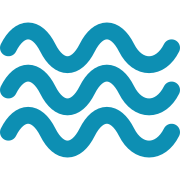
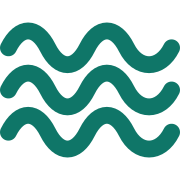
Restore seafoam default palette

diff --git a/apps/web/src/state/preferences.ts b/apps/web/src/state/preferences.ts
@@ -2,8 +2,8 @@ import type { LocationOption, Units } from "@jetstream-weather/domain";
 
 export type ThemePreference = "light" | "dark";
 export type ColorThemePreference =
-  | "cyan"
   | "seafoam"
+  | "cyan"
   | "blue"
   | "purple"
   | "rose"
@@ -27,8 +27,8 @@ const themeKey = "jetstream-weather:theme";
 const colorThemeKey = "jetstream-weather:color-theme";
 const defaultLocationKey = "jetstream-weather:default-location";
 export const colorThemeAccents: Record<ColorThemePreference, string> = {
-  cyan: "#0d8fb3",
   seafoam: "#0f7668",
+  cyan: "#0d8fb3",
   blue: "#256ca8",
   purple: "#7756c5",
   rose: "#c04b73",
@@ -41,8 +41,8 @@ export const colorThemeAccents: Record<ColorThemePreference, string> = {
   graphite: "#505a66",
 };
 const colorThemes = new Set<ColorThemePreference>([
-  "cyan",
   "seafoam",
+  "cyan",
   "blue",
   "purple",
   "rose",
@@ -80,7 +80,7 @@ export function readColorThemePreference(): ColorThemePreference {
 
   return colorThemes.has(storedColorTheme as ColorThemePreference)
     ? (storedColorTheme as ColorThemePreference)
-    : "cyan";
+    : "seafoam";
 }
 
 export function writeColorThemePreference(colorTheme: ColorThemePreference) {

diff --git a/apps/web/src/state/preferences.test.ts b/apps/web/src/state/preferences.test.ts
@@ -29,7 +29,7 @@ describe("preferences", () => {
   it("reads and writes units, theme, and color theme preferences", () => {
     expect(readUnitsPreference()).toBe("imperial");
     expect(readThemePreference()).toBe("dark");
-    expect(readColorThemePreference()).toBe("cyan");
+    expect(readColorThemePreference()).toBe("seafoam");
 
     writeUnitsPreference("metric");
     writeThemePreference("light");
@@ -38,7 +38,7 @@ describe("preferences", () => {
     expect(readUnitsPreference()).toBe("metric");
     expect(readThemePreference()).toBe("light");
     expect(readColorThemePreference()).toBe("coral");
-    expect(getColorThemeAccent("cyan")).toBe("#0d8fb3");
+    expect(getColorThemeAccent("seafoam")).toBe("#0f7668");
     expect(getColorThemeAccent("coral")).toBe("#cf5f42");
   });
 
@@ -46,7 +46,7 @@ describe("preferences", () => {
     localStorage.setItem("jetstream-weather:color-theme", "invalid");
     localStorage.setItem("jetstream-weather:default-location", "{");
 
-    expect(readColorThemePreference()).toBe("cyan");
+    expect(readColorThemePreference()).toBe("seafoam");
     expect(readDefaultStartupPreference()).toBeNull();
 
     localStorage.setItem(

diff --git a/apps/web/src/components/PreferenceBar.test.tsx b/apps/web/src/components/PreferenceBar.test.tsx
@@ -8,7 +8,7 @@ function renderPreferenceBar(overrides = {}) {
   const props = {
     units: "imperial" as const,
     theme: "dark" as const,
-    colorTheme: "cyan" as const,
+    colorTheme: "seafoam" as const,
     backendMode: "live" as const,
     testScenarios: testWeatherScenarios.slice(0, 2),
     selectedTestScenarioId: testWeatherScenarios[0].id,
@@ -58,6 +58,20 @@ describe("PreferenceBar", () => {
       testWeatherScenarios[1].id,
     );
     await user.click(screen.getByRole("button", { name: "Choose color theme" }));
+    expect(screen.getAllByRole("menuitemradio").map((option) => option.textContent)).toEqual([
+      "Seafoam",
+      "Cyan",
+      "Blue",
+      "Purple",
+      "Rose",
+      "Amber",
+      "Slate",
+      "Indigo",
+      "Magenta",
+      "Coral",
+      "Lime",
+      "Graphite",
+    ]);
     await user.click(screen.getByRole("menuitemradio", { name: "Rose" }));
 
     expect(props.onTestScenarioChange).toHaveBeenCalledWith(testWeatherScenarios[1].id);

diff --git a/apps/web/src/pwaAssets.test.ts b/apps/web/src/pwaAssets.test.ts
@@ -24,7 +24,7 @@ describe("PWA assets", () => {
       display: "standalone",
       start_url: "/",
       scope: "/",
-      theme_color: "#0d8fb3",
+      theme_color: "#0f7668",
     });
     expect(manifest.icons).toEqual(
       expect.arrayContaining([
@@ -48,6 +48,7 @@ describe("PWA assets", () => {
     );
 
     expect(existsSync(publicPath("apple-touch-icon.png"))).toBe(true);
+    expect(readFileSync(publicPath("icon.svg"), "utf8")).toContain("#0f7668");
     expect(existsSync(publicPath("pwa-192.png"))).toBe(true);
     expect(existsSync(publicPath("pwa-512.png"))).toBe(true);
     expect(existsSync(publicPath("pwa-maskable-512.png"))).toBe(true);

diff --git a/apps/web/index.html b/apps/web/index.html
@@ -7,7 +7,7 @@
       name="description"
       content="A production-oriented React and NestJS weather app backed by Open-Meteo REST data."
     />
-    <meta name="theme-color" content="#0d8fb3" />
+    <meta name="theme-color" content="#0f7668" />
     <meta name="mobile-web-app-capable" content="yes" />
     <meta name="apple-mobile-web-app-title" content="JetStream" />
     <meta name="apple-mobile-web-app-capable" content="yes" />

diff --git a/apps/web/src/components/PreferenceBar.tsx b/apps/web/src/components/PreferenceBar.tsx
@@ -37,8 +37,8 @@ const colorThemeOptions: Array<{
   label: string;
   swatch: string;
 }> = [
-  { id: "cyan", label: "Cyan", swatch: "#0d8fb3" },
   { id: "seafoam", label: "Seafoam", swatch: "#0f7668" },
+  { id: "cyan", label: "Cyan", swatch: "#0d8fb3" },
   { id: "blue", label: "Blue", swatch: "#256ca8" },
   { id: "purple", label: "Purple", swatch: "#7756c5" },
   { id: "rose", label: "Rose", swatch: "#c04b73" },

diff --git a/docs/wiki/Frontend-Guide.md b/docs/wiki/Frontend-Guide.md
@@ -154,7 +154,7 @@ The desktop dashboard uses a two-column layout with the hero and instruments on 
 
 ## Progressive Web App
 
-JetStream is installable through native browser PWA flows. The HTML document links the manifest, Apple touch icon, theme color, and SVG favicon. The static cyan SVG is the initial favicon fallback; after React loads, `App.tsx` replaces the favicon with an SVG data URI that uses the active palette accent.
+JetStream is installable through native browser PWA flows. The HTML document links the manifest, Apple touch icon, theme color, and SVG favicon. The static seafoam SVG is the initial favicon fallback; after React loads, `App.tsx` replaces the favicon with an SVG data URI that uses the active palette accent.
 
 The service worker is intentionally small and first-party:
 
